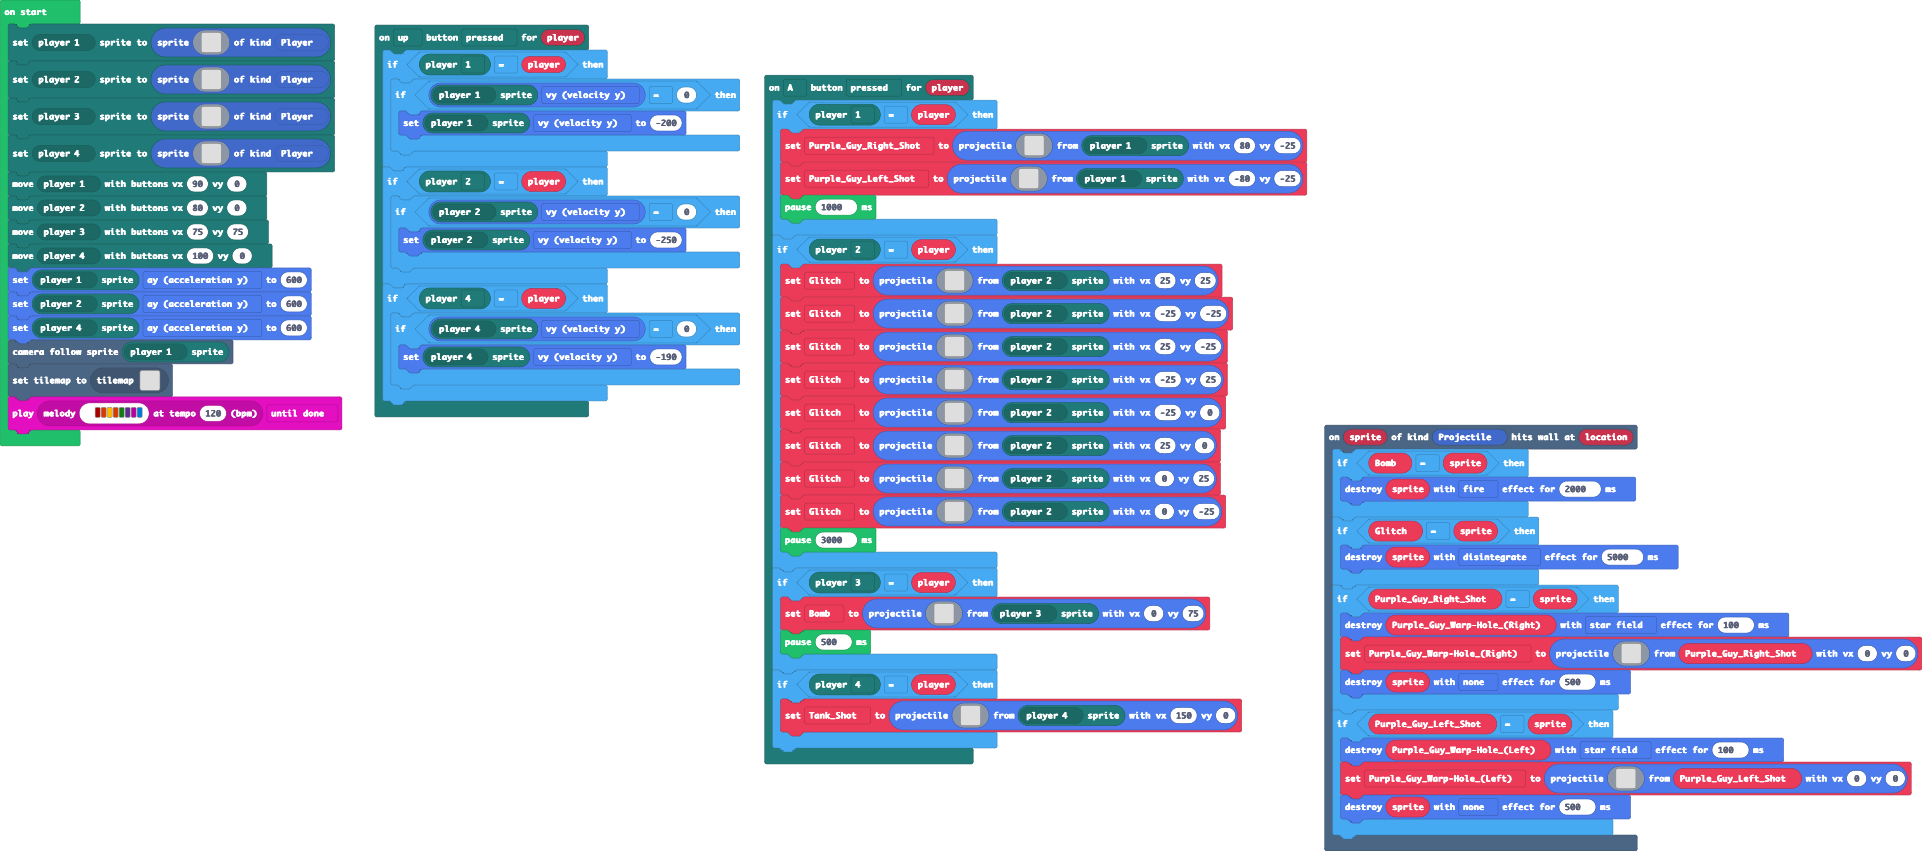
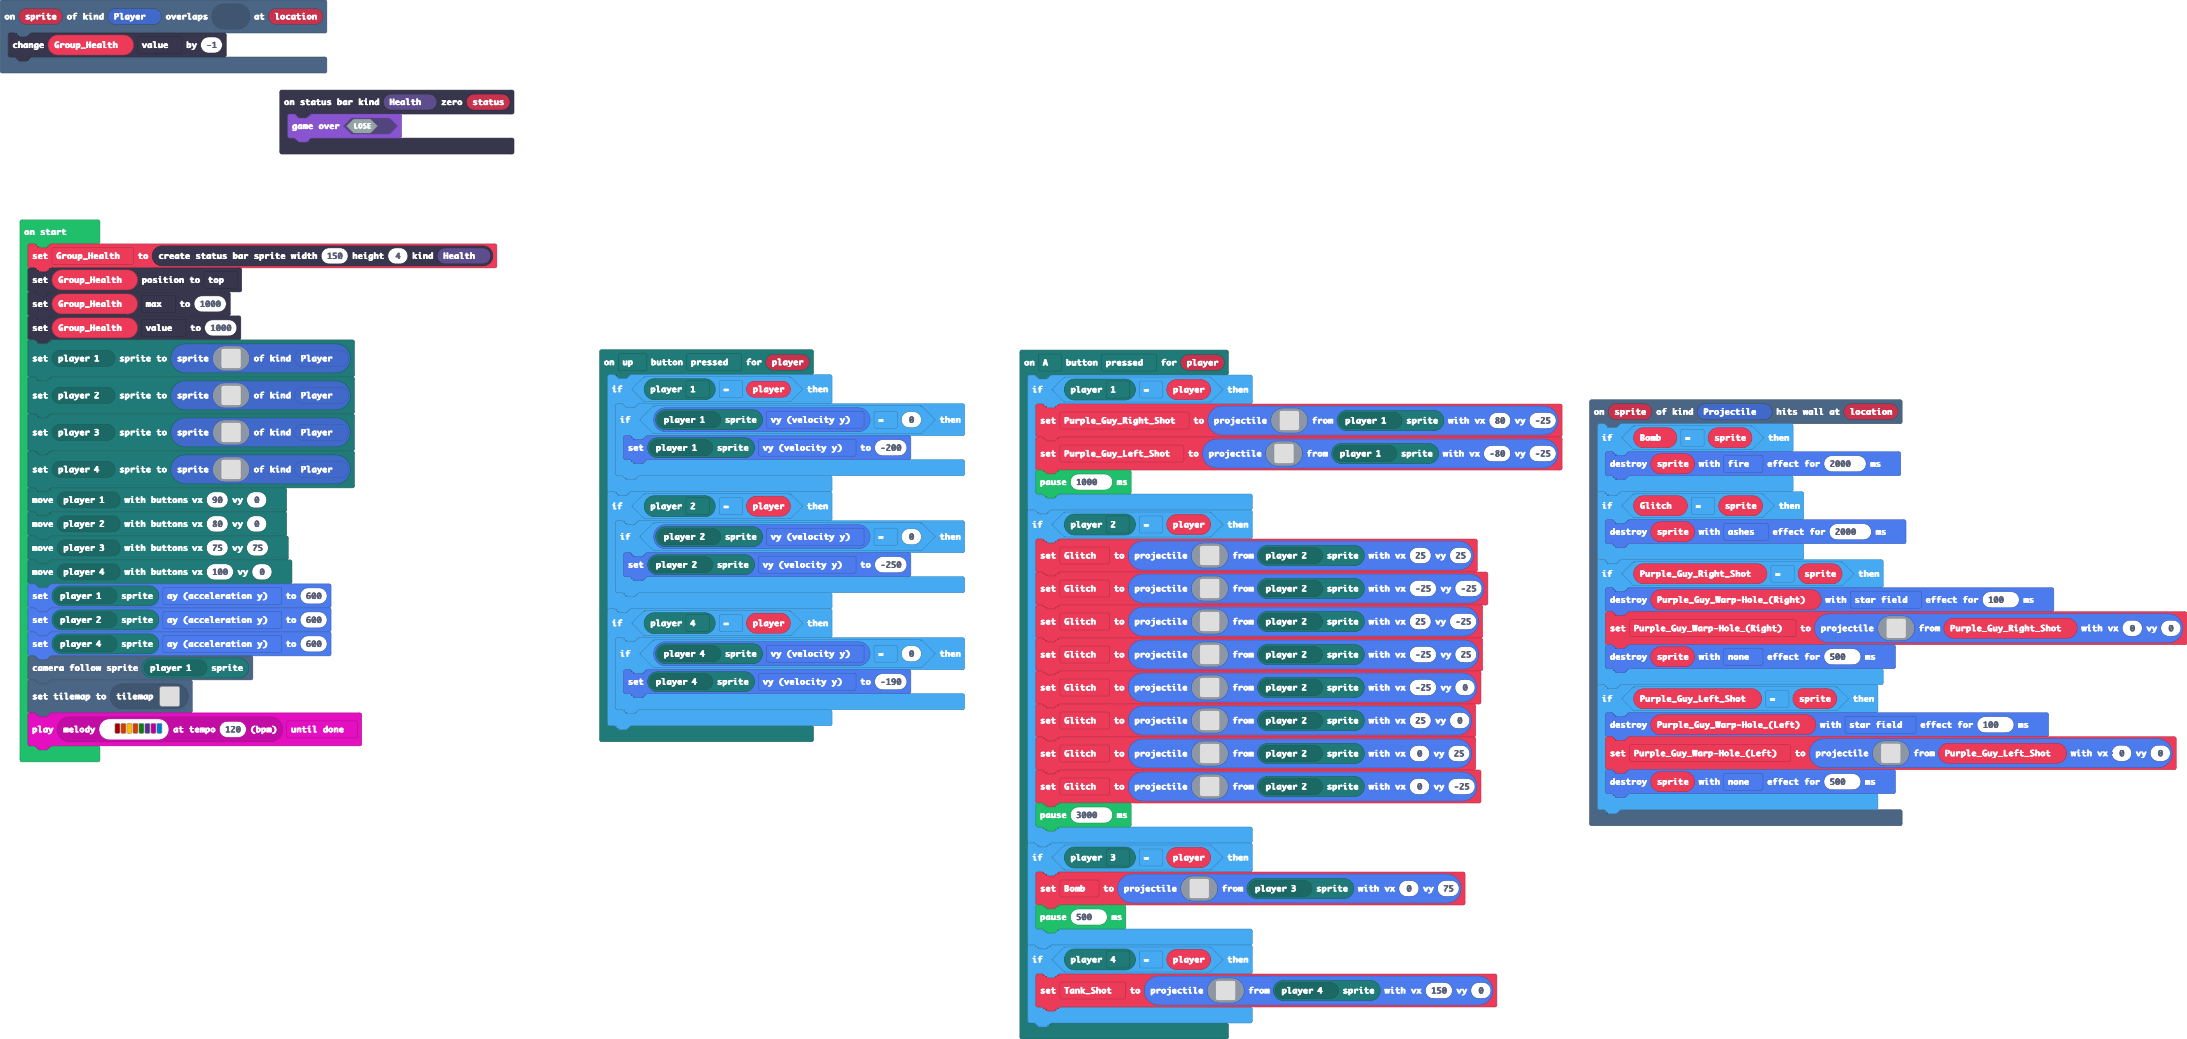
Update main.blocks, main.ts, tilemap.g.jres, tilemap.g.ts

diff --git a/tilemap.g.ts b/tilemap.g.ts
@@ -2,28 +2,30 @@
 namespace myTiles {
     //% fixedInstance jres blockIdentity=images._tile
     export const transparency16 = image.ofBuffer(hex``);
+    //% fixedInstance jres blockIdentity=images._tile
+    export const tile1 = image.ofBuffer(hex``);
 
     helpers._registerFactory("tilemap", function(name: string) {
         switch(helpers.stringTrim(name)) {
             case "level1":
-            case "level1":return tiles.createTilemap(hex`1000100000000000000000000007060000000000000000000000000000070600000000000000000000000000000706000000000000000000000000000007060000000000000000000000000000070600000000000000000000000000000706000000000000000000000000000007060000000000000000000000000000070600000000000000000000000000000706000000000000000000000000000007060000000000000000000000000000050400000000000000000000000000000000000000000000000000000000000000000000000000000000000000000000010300000000000000000000000000000706000000000001020202020202020208060000000000`, img`
-. . . . . . . . . 2 2 . . . . . 
-. . . . . . . . . 2 2 . . . . . 
-. . . . . . . . . 2 2 . . . . . 
-. . . . . . . . . 2 2 . . . . . 
-. . . . . . . . . 2 2 . . . . . 
-. . . . . . . . . 2 2 . . . . . 
-. . . . . . . . . 2 2 . . . . . 
-. . . . . . . . . 2 2 . . . . . 
-. . . . . . . . . 2 2 . . . . . 
-. . . . . . . . . 2 2 . . . . . 
-. . . . . . . . . 2 2 . . . . . 
-. . . . . . . . . . . . . . . . 
-. . . . . . . . . . . . . . . . 
-. . . . . . . . . 2 2 . . . . . 
-. . . . . . . . . 2 2 . . . . . 
-2 2 2 2 2 2 2 2 2 2 2 . . . . . 
-`, [myTiles.transparency16,sprites.dungeon.greenOuterNorthWest,sprites.dungeon.greenOuterNorth0,sprites.dungeon.greenOuterNorthEast,sprites.dungeon.greenOuterSouthWest,sprites.dungeon.greenOuterSouthEast,sprites.dungeon.greenOuterEast0,sprites.dungeon.greenOuterWest0,sprites.dungeon.greenInnerSouthEast], TileScale.Sixteen);
[1 lines of base64/hex data omitted]
+.........22..........................................................
+.........22..........................................................
+.........22..........................................................
+.........22..........................................................
+.........22..........................................................
+.........22..........................................................
+.........22..........................................................
+.........22..........................................................
+.........22..........................................................
+.........22..........................................................
+.........22..........................................................
+.....................................................................
+.....................................................................
+.........22..........................................................
+.........22..........................................................
+22222222222222...222222..............................................
+`, [myTiles.transparency16,sprites.dungeon.greenOuterNorthWest,sprites.dungeon.greenOuterNorth0,sprites.dungeon.greenOuterNorthEast,sprites.dungeon.greenOuterSouthWest,sprites.dungeon.greenOuterSouthEast,sprites.dungeon.greenOuterEast0,sprites.dungeon.greenOuterWest0,sprites.dungeon.greenInnerSouthEast,sprites.dungeon.greenInnerSouthWest,myTiles.tile1], TileScale.Sixteen);
         }
         return null;
     })
@@ -31,6 +33,8 @@ namespace myTiles {
     helpers._registerFactory("tile", function(name: string) {
         switch(helpers.stringTrim(name)) {
             case "transparency16":return transparency16;
+            case "Void_Death":
+            case "tile1":return tile1;
         }
         return null;
     })

diff --git a/main.ts b/main.ts
@@ -1,3 +1,6 @@
+scene.onOverlapTile(SpriteKind.Player, assets.tile`Void_Death`, function (sprite, location) {
+    Group_Health.value += -1
+})
 mp.onButtonEvent(mp.MultiplayerButton.A, ControllerButtonEvent.Pressed, function (player2) {
     if (mp.playerSelector(mp.PlayerNumber.One) == player2) {
         Purple_Guy_Right_Shot = sprites.createProjectileFromSprite(img`
@@ -91,12 +94,15 @@ mp.onButtonEvent(mp.MultiplayerButton.A, ControllerButtonEvent.Pressed, function
         Tank_Shot = sprites.createProjectileFromSprite(assets.image`Nine_Eleven_Nuke`, mp.getPlayerSprite(mp.playerSelector(mp.PlayerNumber.Four)), 150, 0)
     }
 })
+statusbars.onZero(StatusBarKind.Health, function (status) {
+    game.gameOver(false)
+})
 scene.onHitWall(SpriteKind.Projectile, function (sprite, location) {
     if (Bomb == sprite) {
         sprites.destroy(sprite, effects.fire, 2000)
     }
     if (Glitch == sprite) {
-        sprites.destroy(sprite, effects.disintegrate, 5000)
+        sprites.destroy(sprite, effects.ashes, 2000)
     }
     if (Purple_Guy_Right_Shot == sprite) {
         sprites.destroy(Purple_Guy_WarpHole_Right, effects.starField, 100)
@@ -167,6 +173,11 @@ let Bomb: Sprite = null
 let Glitch: Sprite = null
 let Purple_Guy_Left_Shot: Sprite = null
 let Purple_Guy_Right_Shot: Sprite = null
+let Group_Health: StatusBarSprite = null
+Group_Health = statusbars.create(150, 4, StatusBarKind.Health)
+Group_Health.positionDirection(CollisionDirection.Top)
+Group_Health.max = 1000
+Group_Health.value = 1000
 mp.setPlayerSprite(mp.playerSelector(mp.PlayerNumber.One), sprites.create(assets.image`Purple Guy`, SpriteKind.Player))
 mp.setPlayerSprite(mp.playerSelector(mp.PlayerNumber.Two), sprites.create(assets.image`Error_Block`, SpriteKind.Player))
 mp.setPlayerSprite(mp.playerSelector(mp.PlayerNumber.Three), sprites.create(img`
